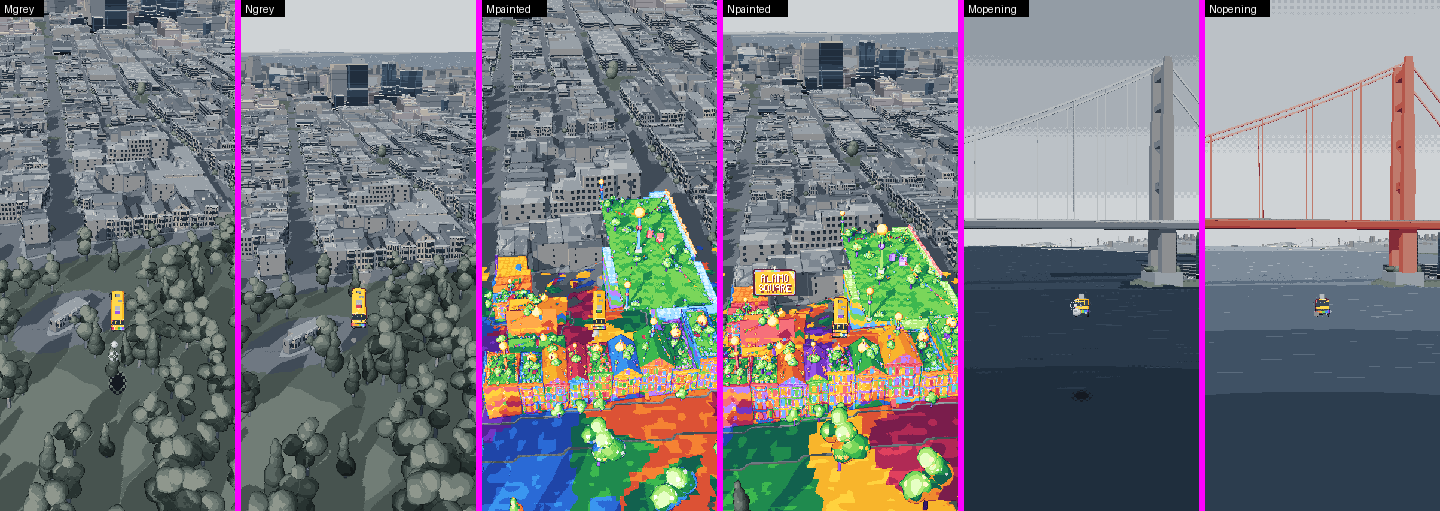
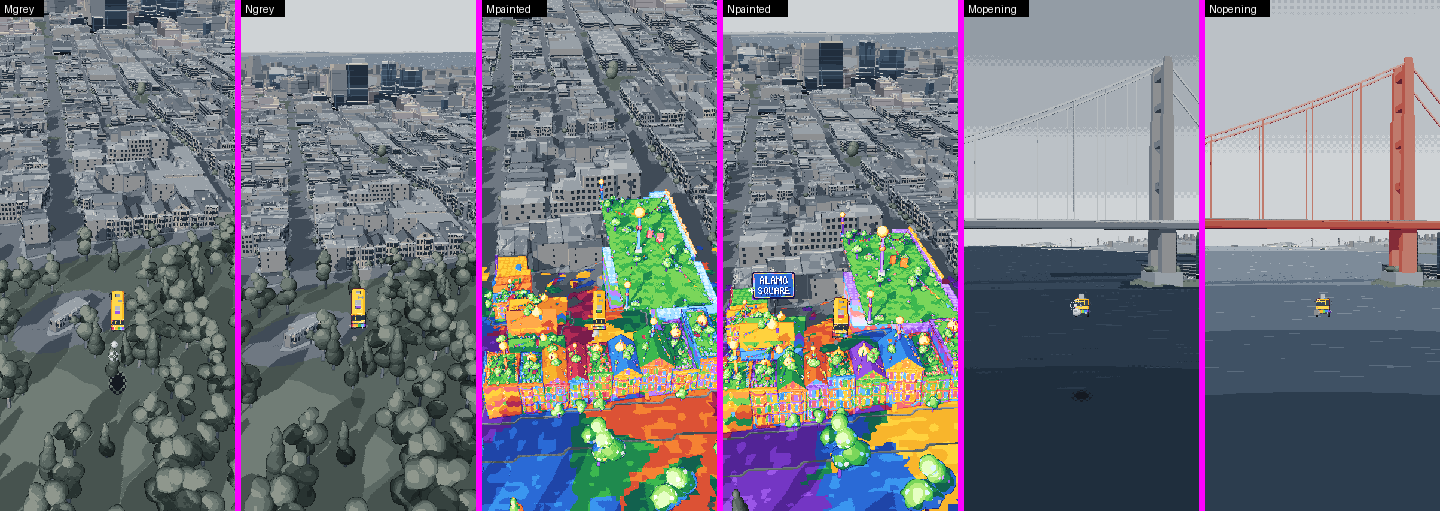
Sign at a landmark hit: beside the landmark, never over it; the whole blade in frame
polish/look's "sign beside the blast" with fix/landmarks' "a landmark's sign on the side
facing the bus": a landmark is the bloom itself and runs past the blast (the Ferry Building is
200 m long), so no spot may put the blade over its projected box, and when nothing is open
its sign stands on its apron along the edge facing the bus (City.edgeToward), as far toward
an end as the frame allows (off its box if it can, else at least off its middle). Every
spot keeps the whole blade inside the frame ("TRANSAMERIC" was cut at the edge).
landmarks.mjs hill poses, +3 s: Coit beside the tower on the hill, Transamerica beside its
base, the Ferry Building right of the clock tower on paving (main: mid-face, over the bloom).
Sign scenes and the painted regression re-shot: one blade, over grey, pole seen.

diff --git a/src/main.ts b/src/main.ts
@@ -393,6 +393,22 @@ async function boot() {
   }
   const signPos = new THREE.Vector3();
   const signNdc = new THREE.Vector3();
+  /** a landmark primary's screen box (NDC x0, y0, x1, y1): the landmark is the bloom itself, the blade stays off it */
+  const lmBox = [0, 0, 0, 0];
+  /** The screen box (NDC) of the blade standing at (x, y, z), half width hw (m), into out; false if behind the camera. */
+  const bladeBox = (x: number, y: number, z: number, hw: number, scale: number, pole: number, sx: number, sz: number, out: number[]): boolean => {
+    out[0] = out[1] = Infinity;
+    out[2] = out[3] = -Infinity;
+    for (const k of [-1, 1])
+      for (const h of [signTune.poleHeight - 1, signTune.poleHeight + 4]) {
+        signNdc.set(x + sx * hw * scale * k, y + h * scale + pole, z + sz * hw * scale * k).project(camera);
+        if (signNdc.z > 1) return false;
+        out[0] = Math.min(out[0], signNdc.x); out[1] = Math.min(out[1], signNdc.y);
+        out[2] = Math.max(out[2], signNdc.x); out[3] = Math.max(out[3], signNdc.y);
+      }
+    return true;
+  };
+  const bladeTmp = [0, 0, 0, 0];
   const signFwd = new THREE.Vector3();
   const SIGN_RING: ReadonlyArray<readonly [number, number]> = [[0, 0], [6, 0], [-6, 0], [0, 6], [0, -6], [12, 0], [-12, 0], [0, 12], [0, -12], [9, 9], [-9, 9], [9, -9], [-9, -9]];
   /** Show (or re-flip) the sign of a blast at (cx, cz) of radius r. False: no open spot in frame yet, ask
@@ -429,6 +445,19 @@ async function boot() {
       // (the blade's half width: its bottom corners must clear the roofs in front too, not just its middle:
       // a roof edge in front cut the letters diagonally)
       const hw = 0.5 * signBladeWidth(text);
+      // a landmark is the money shot itself and may reach far past the blast: no blade over its box on screen
+      const lm = city.isLandmark(ref);
+      if (lm) {
+        lmBox[0] = lmBox[1] = Infinity;
+        lmBox[2] = lmBox[3] = -Infinity;
+        for (const px of [ref.x0, ref.x1]) for (const pz of [ref.z0, ref.z1]) for (const py of [ref.baseY, ref.roofY]) {
+          signNdc.set(px, py, pz).project(camera);
+          if (signNdc.z > 1) continue;
+          lmBox[0] = Math.min(lmBox[0], signNdc.x); lmBox[1] = Math.min(lmBox[1], signNdc.y);
+          lmBox[2] = Math.max(lmBox[2], signNdc.x); lmBox[3] = Math.max(lmBox[3], signNdc.y);
+        }
+      }
+      const overLm = (b: number[]) => lm && b[0] < lmBox[2] && b[2] > lmBox[0] && b[1] < lmBox[3] && b[3] > lmBox[1];
       const spots: Array<readonly [number, number]> = [];
       for (const [o, sd] of [[o1, s1], [0.25 * r, o1], [1.4 * o1, s1]]) spots.push([o, sd * pref], [o, -sd * pref]);
       for (let pass = 0; pass < 2 && !found; pass++) {
@@ -451,6 +480,8 @@ async function boot() {
             // the blade must land inside the frame, below the top band (the sky and the horizon)
             signNdc.set(x, y + (T.poleHeight + 4) * scale + pole, z).project(camera);
             if (Math.abs(signNdc.x) > 0.72 || signNdc.y > 0.7 || signNdc.y < -0.6 || signNdc.z > 1) continue;
+            // (the whole blade in the frame, and never over a landmark primary's box)
+            if (!bladeBox(x, y, z, hw, scale, pole, sx, sz, bladeTmp) || bladeTmp[0] < -0.96 || bladeTmp[2] > 0.96 || overLm(bladeTmp)) continue;
             found = { x, y, z, facing: Math.atan2(-fx, -fz), scale, bias: true, pole, cx, cz, r, text, until: 0 };
             break;
           }
@@ -458,14 +489,34 @@ async function boot() {
         }
       }
       if (!found) {
-        // nowhere open in frame: look again in a moment (the camera moves on), twice; then the primary's
-        // own front (a landmark has no street front: the edge facing the bus), but only when that stands
-        // clear of the blast. Inside it the blade would cover the bloom: then no sign this time.
+        // nowhere open in frame: look again in a moment (the camera moves on), twice. Then a landmark
+        // (it has no street front: the edge facing the bus) signs its name on its apron along that edge, as
+        // far toward an end as the frame allows: off its box on screen if it can, else at least off its
+        // middle (the landmark is the bloom; MAIN stood the sign at the middle of its face). Any other
+        // primary: its own front only when that stands clear of the blast; inside it the blade would cover
+        // the bloom: then no sign this time.
         if (tries < 2) return false;
-        const f = city.isLandmark(ref) ? city.edgeToward(ref, flight.x, flight.z) : city.frontOf(ref);
-        const gx = f.x + f.nx * 4.5, gz = f.z + f.nz * 4.5;
-        if (Math.hypot(gx - cx, gz - cz) < r + 4 || city.groundClassAt(gx, gz) === Ground.WATER) return true;
-        found = { x: gx, y: city.groundAt(gx, gz), z: gz, facing: Math.atan2(f.nx, f.nz), scale: 1, bias: true, pole: 0, cx, cz, r, text, until: 0 };
+        const f = lm ? city.edgeToward(ref, flight.x, flight.z) : city.frontOf(ref);
+        const ex = -f.nz, ez = f.nx;
+        const first = ex * sx + ez * sz >= 0 ? pref : -pref;
+        let spare: typeof signSpot = null;
+        for (const t of lm ? [1, 0.75, 0.5, 0.25] : [0]) {
+          for (const k of [first, -first]) {
+            const reach = t * (0.5 * f.len + hw + 4) * k;
+            const gx = f.x + f.nx * 4.5 + ex * reach, gz = f.z + f.nz * 4.5 + ez * reach;
+            if (!lm && Math.hypot(gx - cx, gz - cz) < r + 4) continue;
+            if (city.groundClassAt(gx, gz) === Ground.WATER || city.roofAt(gx, gz) !== null) continue;
+            const gy = city.groundAt(gx, gz);
+            const spot = { x: gx, y: gy, z: gz, facing: Math.atan2(f.nx, f.nz), scale: 1, bias: true, pole: 0, cx, cz, r, text, until: 0 };
+            if (!lm) { found = spot; break; }
+            if (!bladeBox(gx, gy, gz, hw, 1, 0, sx, sz, bladeTmp) || bladeTmp[0] < -0.96 || bladeTmp[2] > 0.96 || bladeTmp[3] > 0.7) continue;
+            if (!overLm(bladeTmp)) { found = spot; break; }
+            spare ??= spot;
+          }
+          if (found) break;
+        }
+        found ??= spare;
+        if (!found) return true;
       }
       signSpot = found;
     }

diff --git a/DECISIONS.md b/DECISIONS.md
@@ -889,7 +889,15 @@ cross-checked in the browser with `tools/feel.mjs`.
   old spot in front of the primary (a landmark's edge facing the bus,
   `City.edgeToward`) only if it stands outside the blast (+4 m), at true
   depth, else no sign: the old 16 m bias drew the blade over the bloom
-  there. One sign per name on screen: a second blast in the neighborhood
+  there. The whole blade must sit in the frame. A landmark is the bloom
+  itself and runs past the blast (the Ferry Building is 200 m long): no
+  blade over its box on screen, and when nothing is open its sign stands on
+  its apron along the face toward the bus, as far toward an end as the
+  frame allows (main stood it mid-face, over the pyramid's base and the
+  clock tower). tools landmarks hill poses, sign at +3 s: Coit on the hill
+  beside the tower, Transamerica beside its base on the plaza, the Ferry
+  Building right of the clock tower on Embarcadero paving (no sign was ever
+  on water; shots/look/landmark-signs.png). One sign per name on screen: a second blast in the neighborhood
   flips the standing sign while it is in view and outside the new blast; if
   the new bloom reaches its spot, it sinks (`StreetSigns.retire`) and the
   sign stands anew beside this blast (the painted regression frame had two

diff --git a/docs/ARCHITECTURE.md b/docs/ARCHITECTURE.md
@@ -340,8 +340,12 @@ impact frame shows the hit.
   the blade (`signBladeWidth(text)`) must clear them too. Never on water
   (`City.groundClassAt`: the tile's 2 m ground class). No spot in frame:
   `showSign` returns false and the pending sign asks again 0.8 s later
-  (twice); then the primary's front (a landmark's edge facing the bus,
-  `City.edgeToward`) only if it lies outside the blast (+4 m), else no sign.
+  (twice); then the primary's front only if it lies outside the blast
+  (+4 m), else no sign. The whole blade must sit inside the frame. A
+  landmark primary is the bloom itself and reaches past the blast: no
+  blade may overlap its projected box, and its fallback is its apron along
+  the edge facing the bus (`City.edgeToward`), as far toward an end as the
+  frame allows (off its box if it can, else at least off its middle).
   One sign per name: while a sign with this name stands, a new blast flips it
   if it is in view and outside the new blast; if the new bloom reaches its
   spot, `StreetSigns.retire(pos)` sinks it and the sign stands anew.
